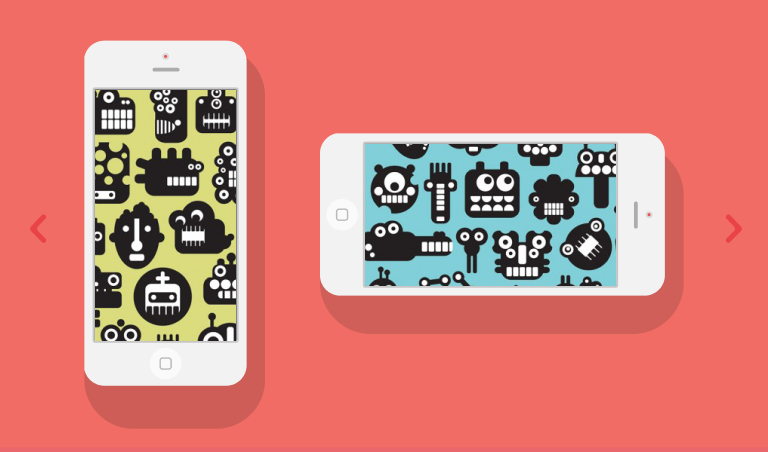
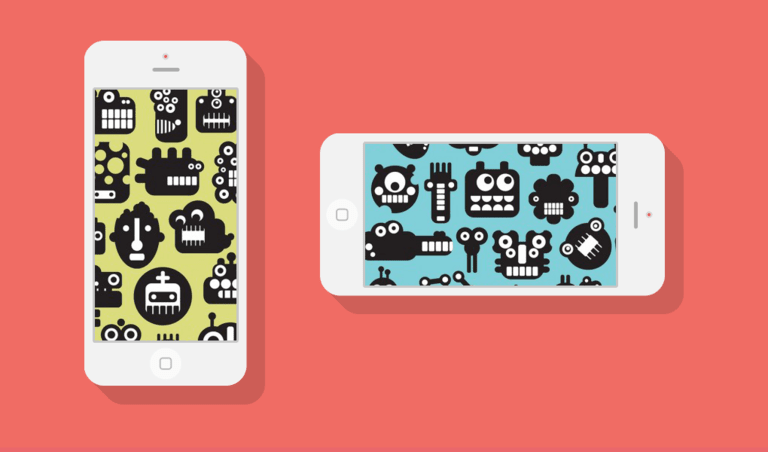
feat: update image

diff --git a/style.css b/style.css
@@ -639,6 +639,15 @@ button {
     width: 768px;
     height: 452px;
   }
+  .black-screen {
+    display: none;
+  }
+  .slider__1 {
+    background: url(./assets/img/slider/Slide-1_768.png);
+  }
+  .slider__2 {
+    background: url(./assets/img/slider/Slide-2_768.png);
+  }
   .slider {
     background-color: #f06c64;
     width: 768px;
@@ -667,9 +676,9 @@ button {
   .infinity-slider {
     max-width: 768px;
   }
-  .infinity-slider div {
+  /* .infinity-slider div {
     height: auto;
-  }
+  } */
   .btn-infinity-left,
   .btn-infinity-right {
     top: 200px;
@@ -716,6 +725,15 @@ button {
   .slider__2 {
     width: 375px;
     height: 220px;
+  }
+  .slider__1 {
+    background: url(./assets/img/slider/Slide-1_375.png);
+  }
+  .slider__2 {
+    background: url(./assets/img/slider/Slide-2_375.png);
+  }
+  .black-screen {
+    display: none;
   }
   .slider {
     background-color: #f06c64;

diff --git a/index.html b/index.html
@@ -56,7 +56,7 @@
             <div class="infinity-slider-wrap">
                 <div class="infinity-slider">
                     <div class="slider__1"></div>
-                    <div class="slider__2"></div>
+                    <div class="slider__2 opacity0" ></div>
 
 
                 </div>
